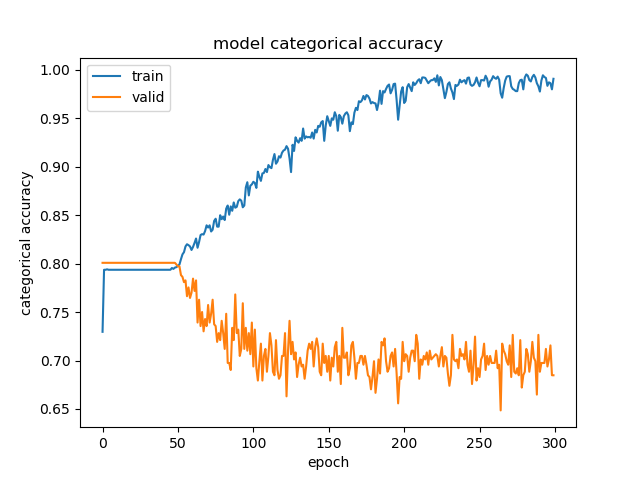
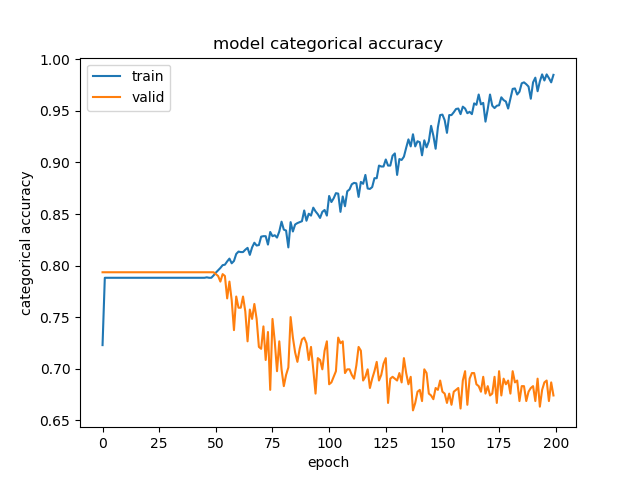
final push. lets present it

diff --git a/Scripts/main.py b/Scripts/main.py
@@ -158,9 +158,11 @@ class AmbiguityMapper():
             text_model = d2v_handler.GenerateTextModel(sentences)
 
             print("------- One Hot Encode Classes --------")
-            int_categories = LabelEncoder().fit_transform(array(categories))
-            encoded_categories = to_categorical(int_categories)
-
+            int_categories = LabelEncoder().fit_transform(array(categorie_names))
+            data_to_class = dict(zip(categorie_names, int_categories))
+            class_to_data = dict(zip(int_categories, categorie_names))
+            encoded_categories = to_categorical([data_to_class[c] for c in categories])
+            
             print("-------- One Hot Encode Words ---------")
             int_words = LabelEncoder().fit_transform(array(words))
             encoded_words = to_categorical(int_words)
@@ -184,11 +186,6 @@ class AmbiguityMapper():
             if train_words.shape[0] != text_train_arrays.shape[0]:
                 print("The shapes of the doc and word arrays do not match in the first dimension!")
 
-            print(train_words.shape)
-            print(text_train_arrays.shape)
-            print(test_words.shape)
-            print(text_test_arrays.shape)
-
             train_x = np.concatenate((train_words, text_train_arrays), axis=1)
             train_y = encoded_categories[:self._train_size]
             test_x = np.concatenate((test_words, text_test_arrays), axis=1)
@@ -201,13 +198,18 @@ class AmbiguityMapper():
             net_model = Model(init_shape=(train_x.shape[1],), categories=categories_count)
             net_model.Create()
             net_model.Compile()
-            history = net_model.Train(train_x=train_x, train_y=train_y, eps=300, batches=64)
+            history = net_model.Train(train_x=train_x, train_y=train_y, eps=200, batches=64)
             net_model.ShowResultAccuracy(history)
             net_model.PlotResults(history, model_description=self._model_name)
-            for i in range(self._train_size,self._train_size + self._test_size):
-                print("Word: ", words[i], " | Sentences: ", sentences[i])
-            net_model.PredictAndVisualize(test_set=test_x, categories=categorie_names)
 
+            train_set_words = [words[w] for w in range(self._train_size,self._train_size + self._test_size)]
+            train_set_docs = [sentences[s].words for s in range(self._train_size,self._train_size + self._test_size)]
+
+            net_model.PredictAndVisualize(  test_set=test_x, 
+                                            categories = None, 
+                                            decode_dict = class_to_data,
+                                            test_words = train_set_words, 
+                                            test_docs = train_set_docs)
         except Exception as ex:
             template = "An exception of type {0} occurred in [Main.ExecuteANNProcessing]. Arguments:\n{1!r}"
             message = template.format(type(ex).__name__, ex.args)

diff --git a/Scripts/MachineLearning/ArtificialNeuralNetwork/NetworkModel.py b/Scripts/MachineLearning/ArtificialNeuralNetwork/NetworkModel.py
@@ -5,6 +5,7 @@ from keras import regularizers
 import matplotlib.pyplot as plt
 import pandas as pd
 import numpy as np
+from SupportMethods.ContentSupport import isNotNone
 
 class Model(object):
 
@@ -136,17 +137,34 @@ class Model(object):
             message = template.format(type(ex).__name__, ex.args)
             print(message)
 
-    def PredictAndVisualize(self, test_set, categories:list, submission_file_name:str = "submission_all.csv"):
+    def PredictAndVisualize(self, 
+                            test_set, 
+                            categories:list, 
+                            decode_dict:dict, 
+                            test_words:list, 
+                            test_docs:list, 
+                            submission_file_name:str = "submission_all.csv", 
+                            isClasses:bool = True):
         """
         This method predict results for a given test set and store it in a csv file.
-            :param test_set: test set
-            :param categories:list: list of categorie names 
-            :param submission_file_name:str: file name
-        """   
+            :param test_set: predictable input
+            :param categories:list: proba lables 
+            :param decode_dict:dict: class decoder dicts
+            :param test_words:list: prediction words
+            :param test_docs:list: predictions docs
+            :param submission_file_name:str: name of the prdicted results file
+            :param isClasses:bool: predict classes otherwise probability
+        """
         try:
-            
-            submission = pd.DataFrame(self._model.predict_proba(test_set))
-            submission.columns = categories
+            mapped:dict = {}
+            predictions = self._model.predict_classes(test_set) if isClasses else self._model.predict_proba(test_set)
+
+            if isNotNone(test_words): mapped['Words'] = test_words
+            if isNotNone(test_docs): mapped['Docs'] = test_docs
+            if isNotNone(predictions): mapped['PredClasses'] = predictions
+            if isNotNone(decode_dict) and isNotNone(predictions): mapped['ClassNames'] = [decode_dict[p] for p in predictions]
+            submission = pd.DataFrame(mapped)
+            if categories != None: submission.columns = categories
             submission.to_csv(submission_file_name, index=False)
             submission.head()
         except Exception as ex:
